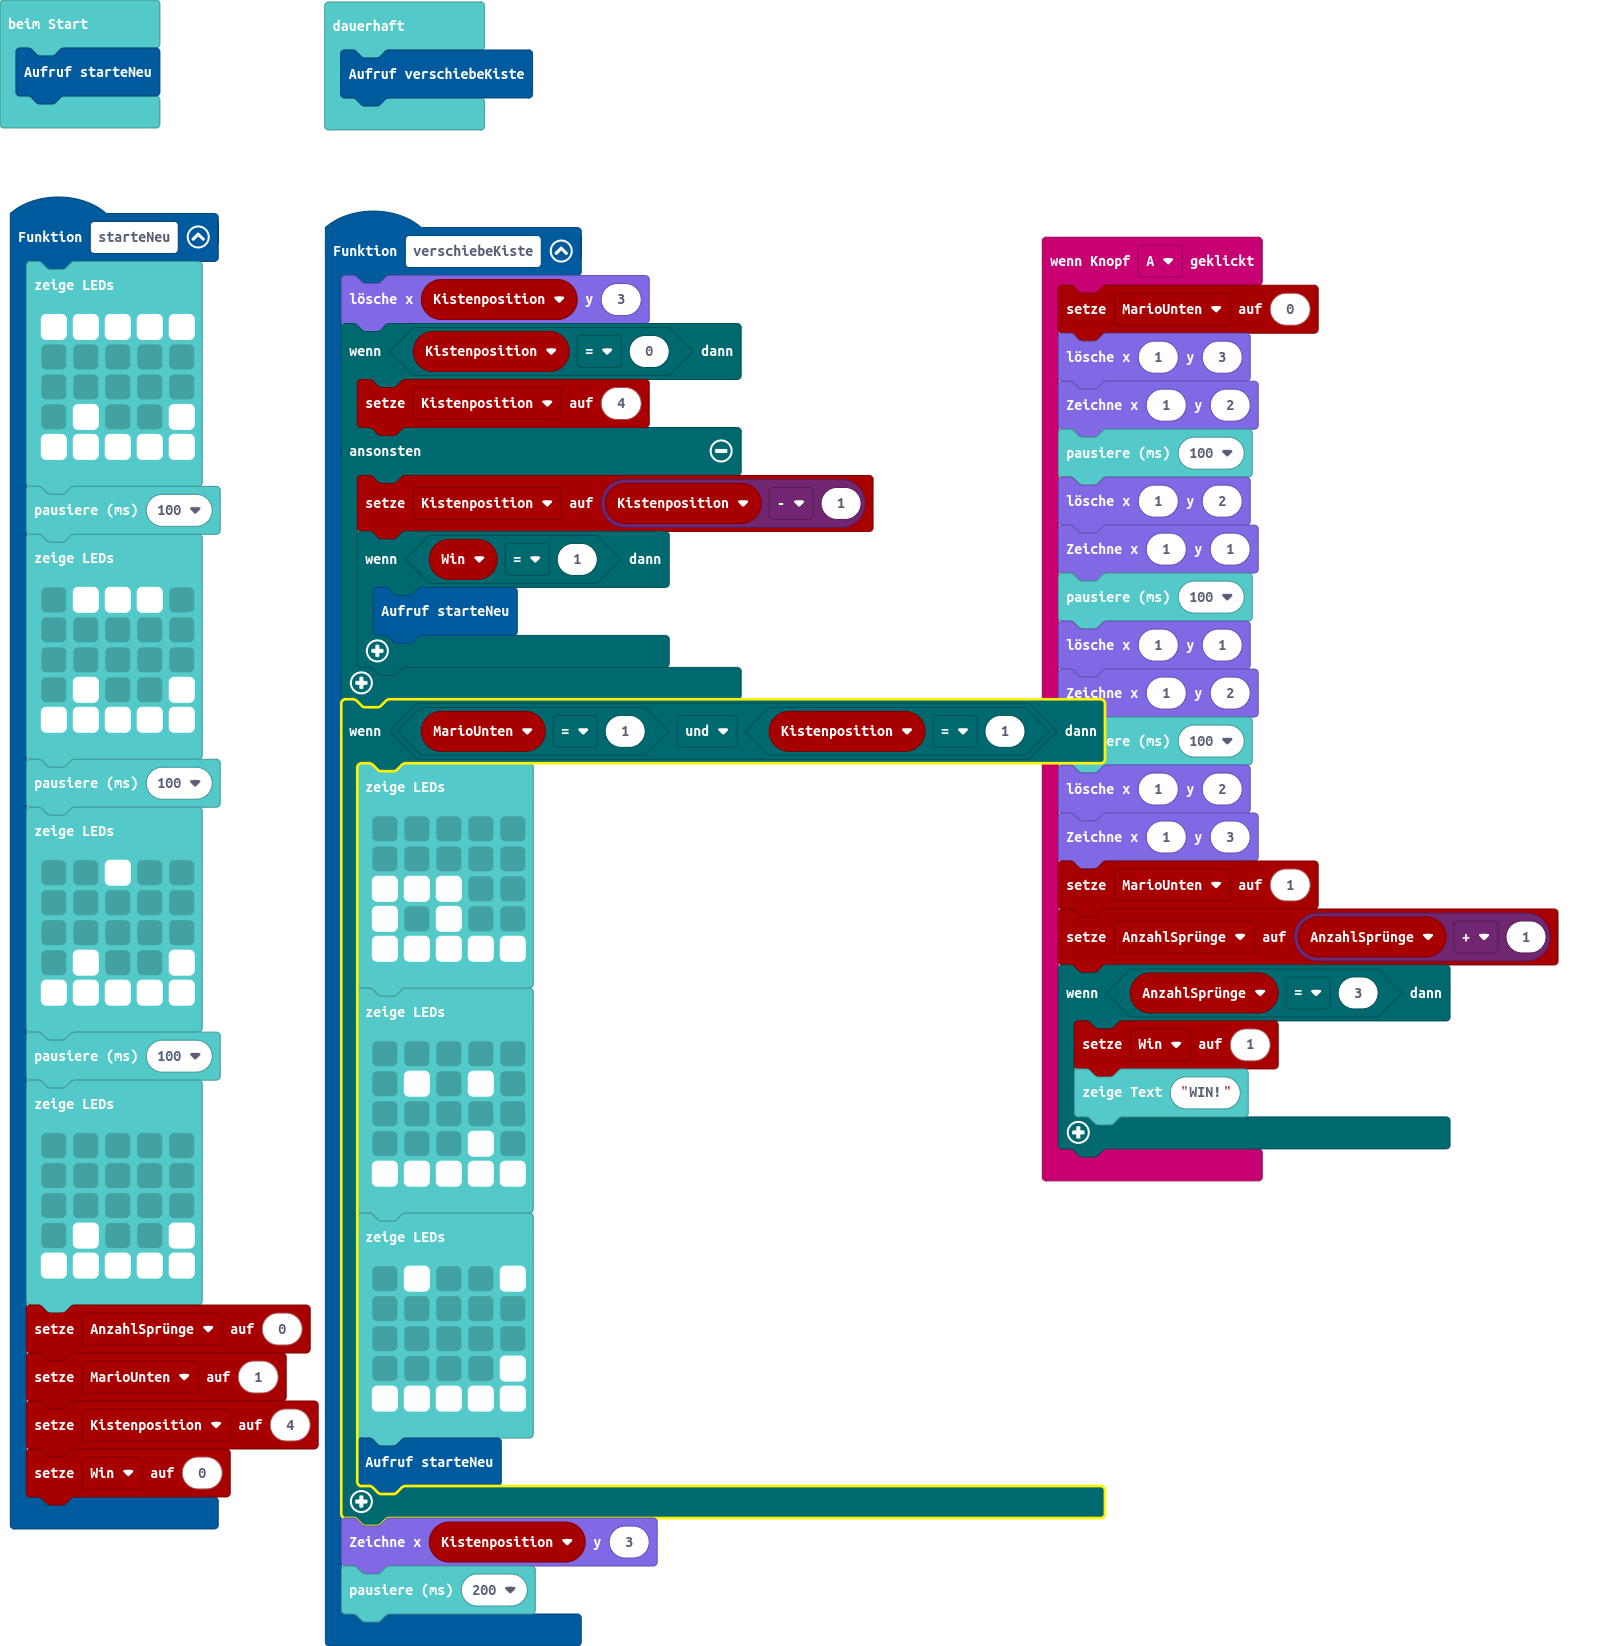
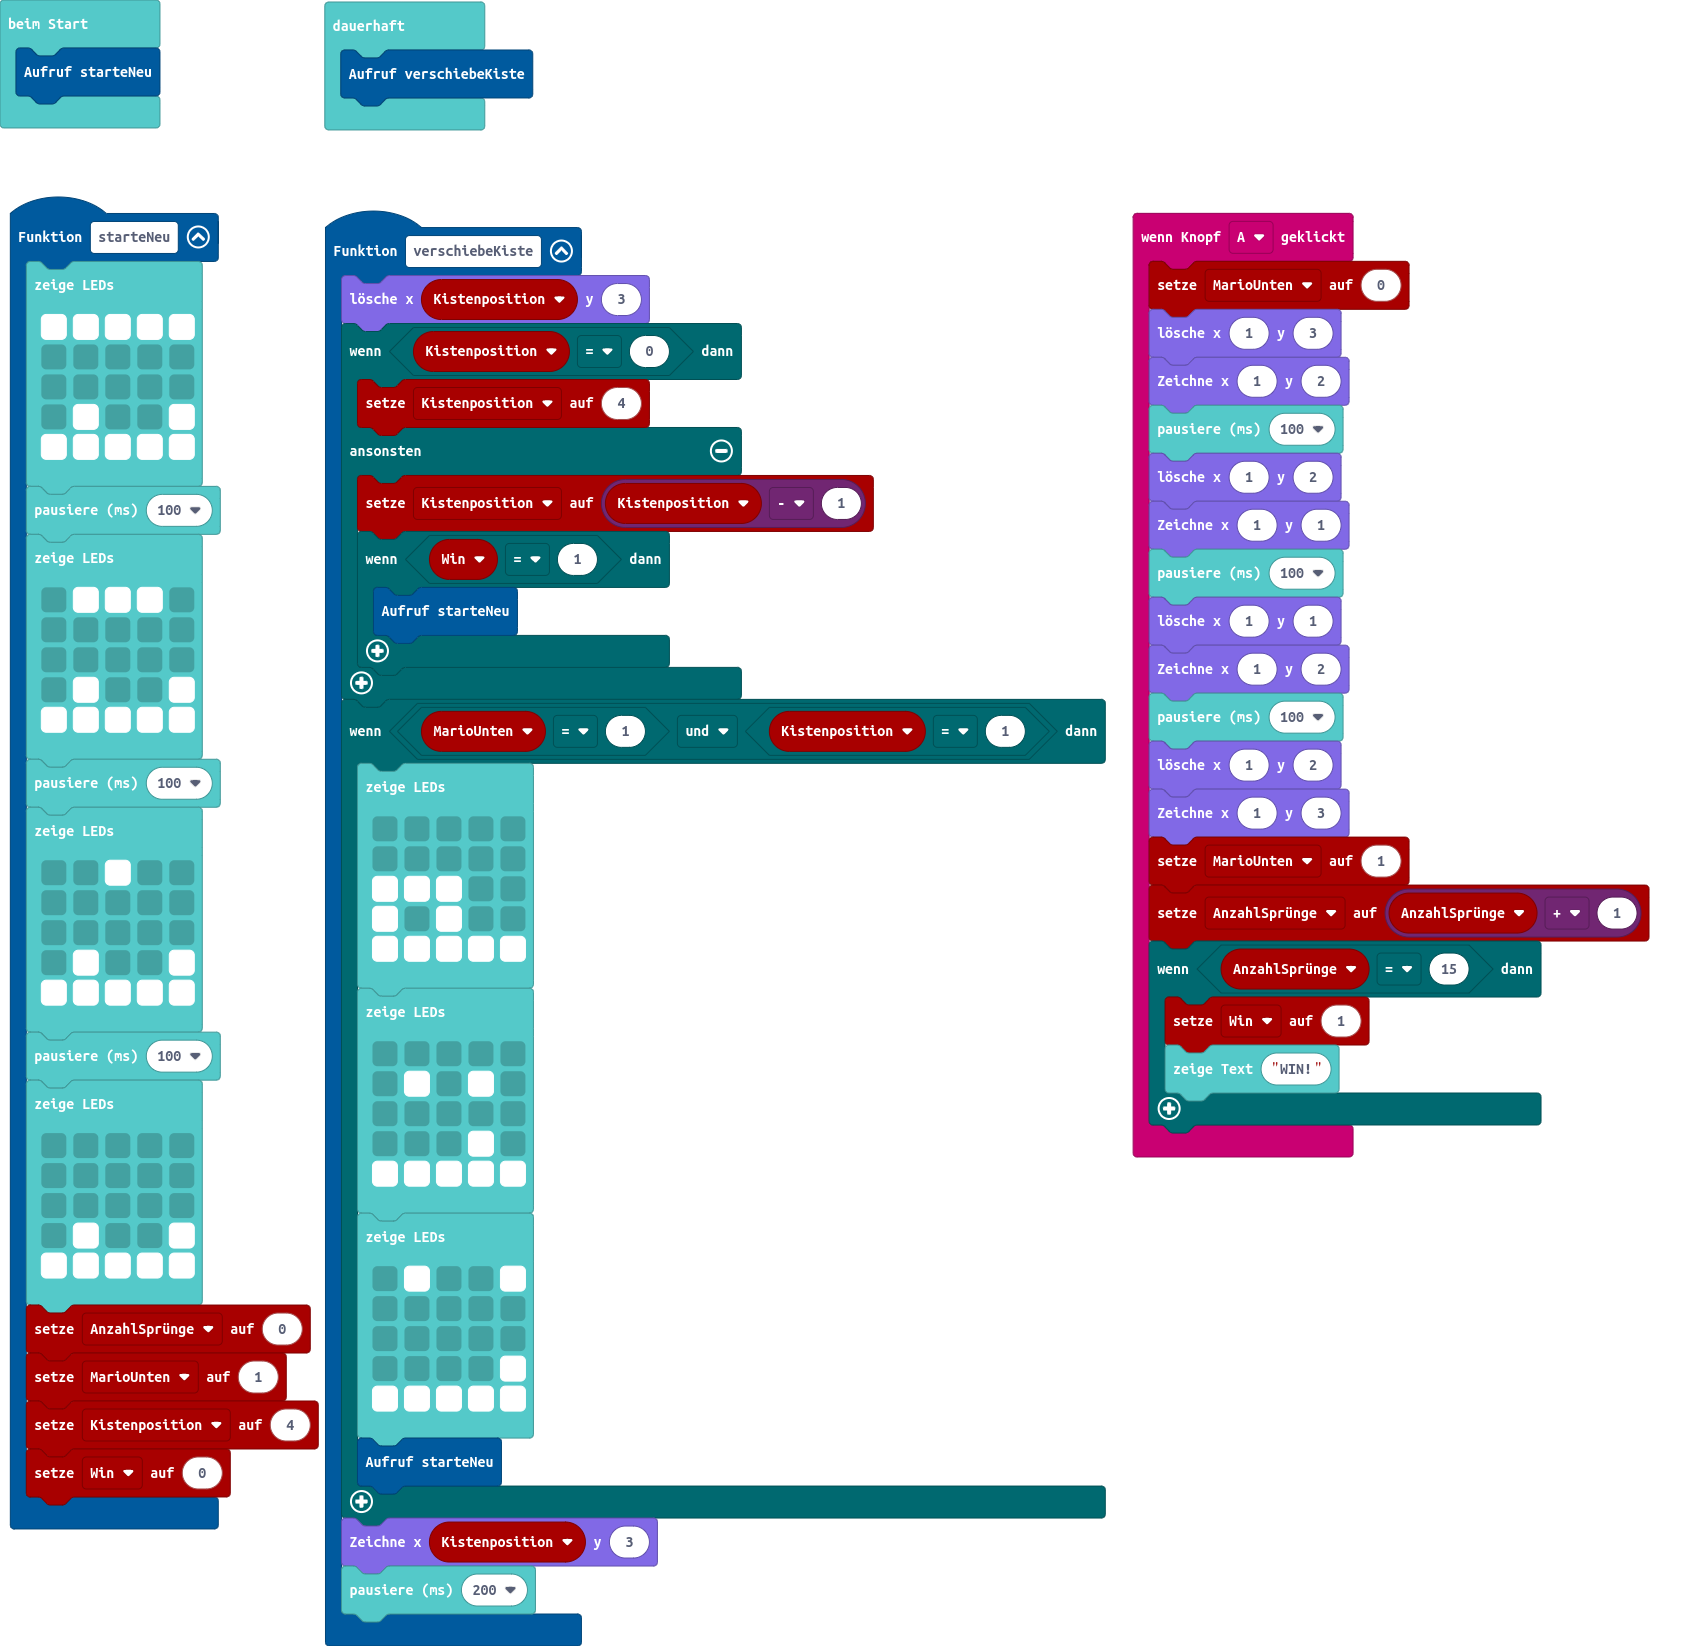
Gewinne erst bei 15

Changed region(s): [[0.0, 0.1239, 0.9938, 1.0], [0.1863, 0.0, 0.3416, 0.093], [0.0, 0.0, 0.1242, 0.093]]

diff --git a/main.ts b/main.ts
@@ -13,7 +13,7 @@ input.onButtonPressed(Button.A, function () {
     led.plot(1, 3)
     MarioUnten = 1
     AnzahlSprünge = AnzahlSprünge + 1
-    if (AnzahlSprünge == 3) {
+    if (AnzahlSprünge == 15) {
         Win = 1
         basic.showString("WIN!")
     }
